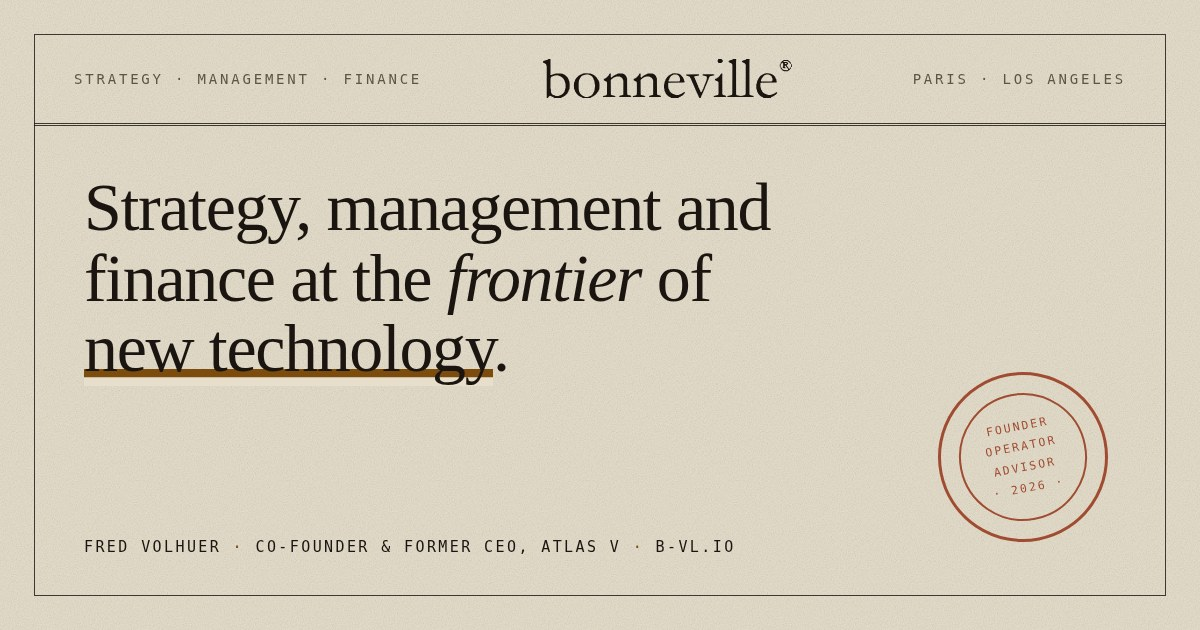
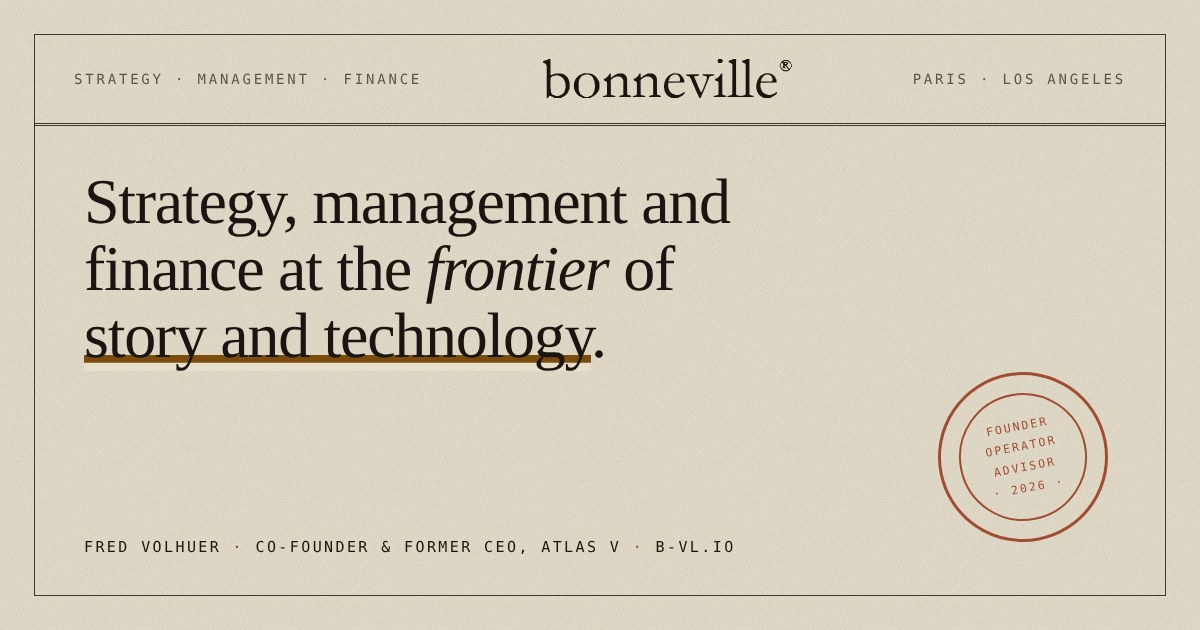
Add thesis section, third mandate and new headline
Headline is now "Strategy, management and finance at the frontier of
story and technology", with the ochre underline on "story and technology".

New section 02, Thesis: High Frequency Content for legacy film and TV
libraries. Four market figures that count up on scroll, the opportunity
in two columns, the five-step loop and closing notes on proof points,
ending on the 90 day pilot.

Mandates now hold three cards, led by the media group advisory. The
client is unnamed and the bid is described as a consortium of
international investors bidding for a listed global production and
distribution media group.

Also fixes a reveal bug: elements already above the viewport after a
jump scroll, a deep link or a refresh never intersected, so they stayed
invisible. A scroll and resize sweep now shows anything already passed,
without replaying its animation.

og.jpg regenerated to match the new headline.

Claude-Session: https://claude.ai/code/session_013wAGs2XHr7dTZLCCZNxCQr

diff --git a/index.html b/index.html
@@ -7,16 +7,16 @@
 <meta charset="utf-8">
 <meta name="viewport" content="width=device-width,initial-scale=1">
 <title>Bonneville · Strategy, General Management &amp; Finance</title>
-<meta name="description" content="Bonneville advises founders, boards and executive teams on strategy, general management and finance, across emerging technology, immersive media, robotics, applied AI and brand marketing. Paris · Los Angeles.">
+<meta name="description" content="Bonneville advises founders, boards and executive teams on strategy, general management and finance. High Frequency Content for legacy film and TV libraries, emerging technology, robotics and applied AI. Paris · Los Angeles.">
 <meta name="theme-color" content="#1A1510">
 <meta property="og:type" content="website">
 <meta property="og:title" content="Bonneville · Strategy, Management &amp; Finance">
-<meta property="og:description" content="Strategy, general management and finance at the frontier of new technology. Founder-led advisory, Paris · Los Angeles.">
+<meta property="og:description" content="Strategy, general management and finance at the frontier of story and technology. Founder-led advisory, Paris · Los Angeles.">
 <meta property="og:url" content="https://b-vl.io/">
 <meta property="og:image" content="https://b-vl.io/og.jpg">
 <meta property="og:image:width" content="1200">
 <meta property="og:image:height" content="630">
-<meta property="og:image:alt" content="Bonneville. Strategy, management and finance at the frontier of new technology.">
+<meta property="og:image:alt" content="Bonneville. Strategy, management and finance at the frontier of story and technology.">
 <meta property="og:site_name" content="Bonneville">
 <meta name="twitter:card" content="summary_large_image">
 <meta name="twitter:image" content="https://b-vl.io/og.jpg">
@@ -127,16 +127,40 @@ h2{font-family:var(--serif);font-weight:400;font-size:clamp(28px,4vw,50px);line-
 
 /* mandates */
 .mgrid{display:grid;border-top:1px solid var(--rule)}
-@media(min-width:860px){.mgrid{grid-template-columns:1fr 1fr}}
-.mand{padding:clamp(24px,3vw,38px) 0;border-bottom:1px solid var(--thin)}
-@media(min-width:860px){.mand:first-child{padding-right:clamp(24px,3vw,44px);border-right:1px solid var(--thin)}
-  .mand:last-child{padding-left:clamp(24px,3vw,44px)}}
+@media(min-width:820px){.mgrid{grid-template-columns:repeat(3,minmax(0,1fr))}}
+.mand{position:relative;min-width:0;padding:clamp(24px,3vw,36px) 0;border-bottom:1px solid var(--thin)}
+@media(min-width:820px){
+  .mand{border-bottom:0;border-right:1px solid var(--thin);padding-inline:clamp(18px,2.2vw,30px)}
+  .mand:first-child{padding-left:0}
+  .mand:last-child{padding-right:0;border-right:0}
+}
+.mand::before{content:"";position:absolute;left:0;top:-1px;height:2px;width:100%;background:var(--och);
+  transform:scaleX(0);transform-origin:left;transition:transform .7s var(--ease2)}
+.mand:hover::before{transform:scaleX(1)}
 .mand .tagl{display:flex;justify-content:space-between;gap:12px;font-family:var(--mono);font-size:9.5px;
   letter-spacing:.22em;text-transform:uppercase;color:var(--och);margin-bottom:14px}
 .mand .tagl span:last-child{color:var(--mut)}
-.mand h3{font-family:var(--serif);font-weight:400;font-size:clamp(26px,2.8vw,38px);line-height:1.08;letter-spacing:-.015em;margin:0 0 6px}
-.mand .what{font-family:var(--serif);font-style:italic;font-size:17px;color:var(--body);margin:0 0 16px}
-.mand p.b{margin:0;font-size:14.5px;line-height:1.68;color:var(--body)}
+.mand h3{font-family:var(--serif);font-weight:400;font-size:clamp(24px,2.5vw,33px);line-height:1.08;
+  letter-spacing:-.015em;margin:0 0 6px;transition:transform .5s var(--ease)}
+.mand:hover h3{transform:translateX(6px)}
+.mand .what{font-family:var(--serif);font-style:italic;font-size:16px;color:var(--body);margin:0 0 16px}
+.mand p.b{margin:0;font-size:14px;line-height:1.66;color:var(--body)}
+
+/* thesis figures */
+.figs{display:grid;grid-template-columns:repeat(2,minmax(0,1fr));border-top:1px solid var(--rule);margin:0 0 36px}
+@media(min-width:1000px){.figs{grid-template-columns:repeat(4,minmax(0,1fr))}}
+.figs div{min-width:0;padding:22px clamp(14px,1.8vw,26px) 22px 0;border-right:1px solid var(--thin);border-bottom:1px solid var(--thin)}
+@media(min-width:1000px){.figs div{border-bottom:0}.figs div:last-child{border-right:0}}
+.figs .n{font-family:var(--serif);font-size:clamp(34px,4.2vw,58px);line-height:.95;letter-spacing:-.025em;font-variant-numeric:tabular-nums}
+.figs .k{font-size:13px;line-height:1.5;color:var(--body);margin-top:9px}
+.figs .src{font-family:var(--mono);font-size:9px;letter-spacing:.14em;text-transform:uppercase;color:var(--mut);margin-top:7px}
+/* thesis statement */
+.stmt{font-family:var(--serif);font-size:clamp(20px,2.3vw,30px);line-height:1.35;letter-spacing:-.012em;margin:0 0 34px;max-width:30ch}
+.stmt b{font-weight:400;background-image:linear-gradient(var(--och),var(--och));background-repeat:no-repeat;background-position:0 94%;background-size:100% .1em}
+.pf{border-top:1px solid var(--rule);margin-top:34px;padding-top:24px;display:grid;gap:22px}
+@media(min-width:860px){.pf{grid-template-columns:1fr 1fr}}
+.pf p{margin:0;font-size:14px;line-height:1.68;color:var(--body)}
+.pf .k{font-family:var(--mono);font-size:9.5px;letter-spacing:.22em;text-transform:uppercase;color:var(--och);margin-bottom:9px}
 
 /* contact */
 .ink{background:var(--ink);color:var(--paper);position:relative;isolation:isolate}
@@ -255,14 +279,14 @@ html.js.settled .stamp{transition:none}
 <main id="main">
 <section class="hero" id="top">
   <span class="cat">Strategy · General Management · Finance</span>
-  <h1 class="serif">Strategy, management and finance at the <em>frontier</em> of <span class="uline">new technology</span>.</h1>
+  <h1 class="serif">Strategy, management and finance at the <em>frontier</em> of <span class="uline">story and technology</span>.</h1>
   <div class="dek">
-    <p>Bonneville advises founders, boards and executive teams on strategy, operations and financing: from company building and P&amp;L ownership to fundraising, cross-border co-production and go-to-market.</p>
+    <p>Bonneville advises founders, boards and executive teams on strategy, operations and financing: from company building and P&amp;L ownership to fundraising, acquisitions and go-to-market. Current focus: putting legacy film and TV libraries back in step with how audiences now find things.</p>
     <p>Led by Fred Volhuer, co-founder and former CEO of Atlas&nbsp;V, whose productions won more than 30 international awards including an Emmy and two Peabody Awards, and Guest Professor at Arizona State University. Sector experience spans emerging technology, immersive and spatial media, robotics, applied AI and brand marketing including social platforms.</p>
   </div>
   <div class="cta">
     <a class="btn btn-ink" href="#contact">Start a conversation</a>
-    <a class="btn btn-line" href="#mandates">Recent mandates</a>
+    <a class="btn btn-line" href="#thesis">Read the thesis</a>
   </div>
   <div class="stamp" aria-hidden="true"><span>Founder<br>Operator<br>Advisor<br>· 2026 ·</span></div>
 </section>
@@ -280,10 +304,53 @@ html.js.settled .stamp{transition:none}
   </ol>
 </section>
 
+<section class="sec" id="thesis">
+  <p class="eyebrow"><b>02</b>Thesis</p>
+  <h2 class="serif">High Frequency Content for legacy film and TV libraries.</h2>
+  <p class="stmt">Legacy libraries run on slow cycles in a world of <b>fast attention</b>. The value is already there. The machinery to answer an audience within days is not.</p>
+
+  <div class="figs">
+    <div><div class="n">50%</div><p class="k">of TikTok users say they discovered a new film there</p><p class="src">TikTok, 2026</p></div>
+    <div><div class="n">12.5%</div><p class="k">YouTube's share of all US TV viewing, January 2026</p><p class="src">Nielsen</p></div>
+    <div><div class="n">$11bn</div><p class="k">FAST revenue by 2030, up from $6bn in 2025</p><p class="src">Omdia</p></div>
+    <div><div class="n">$35bn</div><p class="k">Volumetric video market by 2034, growing 26.7% a year</p><p class="src">Fortune BI</p></div>
+  </div>
+
+  <div class="split" style="margin-bottom:38px">
+    <div>
+      <p class="lede">Library content is the backbone of viewing: the most streamed US title of 2023 was Suits, a series that ended in 2019. Discovery now happens in clips, and a channel of film extracts carries more than 66 million subscribers.</p>
+    </div>
+    <div>
+      <p class="lede">Yet most libraries still run on calendars set months ahead. Their value hides in concentration, erosion and latency. When an actor trends, a remake is announced or a scene becomes a meme, the window lasts days, and nobody is there to answer it.</p>
+    </div>
+  </div>
+
+  <ol class="rl">
+    <li><span class="n serif">01.</span><h3 class="serif">Real-time analysis</h3><p>A Social Media Brain detects and qualifies signals across social conversation, search, streaming charts and news, then matches them to titles and audiences.</p></li>
+    <li><span class="n serif">02.</span><h3 class="serif">Content test loops</h3><p>Several angles per signal, from clips and recuts to trailers and localised versions, tested against controls. Budgets move daily to what works.</p></li>
+    <li><span class="n serif">03.</span><h3 class="serif">Sharp production capacity</h3><p>A small team on AI pipelines turns an opportunity into validated content within hours, at a unit cost that makes thousands of niche audiences worth serving.</p></li>
+    <li><span class="n serif">04.</span><h3 class="serif">Decisions and reach</h3><p>The same evidence scores acquisitions, renewals and reissues, and feeds AI localisation and FAST and AVOD channels.</p></li>
+    <li><span class="n serif">05.</span><h3 class="serif">New forms of engagement</h3><p>A 4D Gaussian Splatting pipeline captures talent volumetrically for photoreal holograms, XR and mobile AR. One capture can be re-rendered from any angle, feeding the loop with new material.</p></li>
+  </ol>
+
+  <div class="pf">
+    <div><p class="k">It already works</p><p>Terrifier 3 grossed about $80m on roughly $500,000 of marketing through owned media. A TikTok surge was credited with about $58m of additional US box office for Zootopia 2. ABBA Voyage's avatar concert earned £104m in 2024.</p></div>
+    <div><p class="k">Where the value sits</p><p>Frequency without learning is noise. The unit of value is not a video but a closed learning loop, from signal to reusable lesson. The biggest prize is better decisions, not cheaper ones, and rights and talent consent come first.</p></div>
+  </div>
+
+  <p class="more" style="margin-top:28px">First step, a 90 day pilot: a demand map of 50 to 100 titles, a High Frequency loop on 20 of them, one holographic prototype.</p>
+</section>
+
 <section class="sec" id="mandates">
-  <p class="eyebrow"><b>02</b>Recent mandates</p>
-  <h2 class="serif">Robotics, social platforms, financing.</h2>
+  <p class="eyebrow"><b>03</b>Recent mandates</p>
+  <h2 class="serif">Media, robotics, social platforms.</h2>
   <div class="mgrid">
+    <article class="mand">
+      <div class="tagl"><span>Media · Library strategy</span><span>Current</span></div>
+      <h3 class="serif">A major media group</h3>
+      <p class="what">Advisory on legacy film and TV library strategy, applying the thesis above.</p>
+      <p class="b">Part of this mandate was representing a consortium of international investors in a bid for a listed global production and distribution media group, covering the industrial case, the structure of the offer and the relationship with the other parties to the process.</p>
+    </article>
     <article class="mand">
       <div class="tagl"><span>Robotics · Human-machine</span><span>2025</span></div>
       <h3 class="serif">Enchanted Tools</h3>
@@ -300,7 +367,7 @@ html.js.settled .stamp{transition:none}
 </section>
 
 <section class="sec" id="recognition">
-  <p class="eyebrow"><b>03</b>Recognition</p>
+  <p class="eyebrow"><b>04</b>Recognition</p>
   <h2 class="serif">Recognition for the productions led at Atlas&nbsp;V.</h2>
   <div class="tot">
     <div><span class="serif">30+</span><p>International awards, including an Emmy, two Peabody Awards and prizes at Venice, Annecy, SXSW and Tribeca</p></div>
@@ -326,7 +393,7 @@ html.js.settled .stamp{transition:none}
 </section>
 
 <section class="sec ink" id="contact">
-  <p class="eyebrow"><b>04</b>Inquire</p>
+  <p class="eyebrow"><b>05</b>Inquire</p>
   <div class="ct">
     <div>
       <h2 class="serif">Start a conversation.</h2>
@@ -383,7 +450,8 @@ html.js.settled .stamp{transition:none}
   /* reveal targets, staggered within their group */
   var groups=[
     ['.hero .cat,.dek p,.cta',0.12],
-    ['.eyebrow',0],['.rl li',0.07],['.mand',0.14],['.tot > div',0.14],
+    ['.eyebrow',0],['.rl li',0.07],['.mand',0.12],['.tot > div',0.14],
+    ['.stmt',0],['.figs > div',0.1],['#thesis .split > div',0.12],['.pf > div',0.12],
     ['.works caption,.works thead tr',0],['.works tbody tr',0.05],['.more',0],
     ['.ct .lead,.ct .btn,.addr > div',0.08]
   ];
@@ -399,35 +467,48 @@ html.js.settled .stamp{transition:none}
 
   /* count-up for the totals */
   function count(el){
-    var txt=el.textContent, m=txt.match(/^(\d+)(.*)$/); if(!m) return;
-    var end=+m[1], suf=m[2], t0=null, dur=1400;
+    var txt=el.textContent, m=txt.match(/^(\D*)(\d+(?:\.\d+)?)(.*)$/); if(!m) return;
+    var pre=m[1], end=parseFloat(m[2]), dec=(m[2].split('.')[1]||'').length, suf=m[3], t0=null, dur=1400;
     if(reduce){return;}
+    function val(k){ return (end*k).toFixed(dec); }
     function step(t){ if(!t0)t0=t; var k=Math.min(1,(t-t0)/dur); k=1-Math.pow(1-k,3);
-      el.textContent=Math.round(end*k)+suf; if(k<1) requestAnimationFrame(step); }
-    el.textContent='0'+suf; requestAnimationFrame(step);
+      el.textContent=pre+val(k)+suf; if(k<1) requestAnimationFrame(step); else el.textContent=txt; }
+    el.textContent=pre+val(0)+suf; requestAnimationFrame(step);
   }
 
+  function reveal(el,animate){
+    el.classList.add('in'); io.unobserve(el);
+    if(animate===false) return;
+    if(el.matches('.tot > div')){ var sp=el.querySelector('span'); if(sp) count(sp); }
+    if(el.matches('.figs > div')){ var nn=el.querySelector('.n'); if(nn) count(nn); }
+  }
   var io=new IntersectionObserver(function(es){
     es.forEach(function(e){
-      if(!e.isIntersecting) return;
-      e.target.classList.add('in'); io.unobserve(e.target);
-      if(e.target.matches('.tot > div')){ var sp=e.target.querySelector('span'); if(sp) count(sp); }
+      if(e.isIntersecting){ reveal(e.target); return; }
+      /* already scrolled past (deep link, refresh, back button): show it, don't animate */
+      if(e.boundingClientRect.bottom<=0) reveal(e.target,false);
     });
   },{rootMargin:'0px 0px -6% 0px',threshold:0});
   /* the hero plays on load; everything else waits for scroll */
   var hero=document.querySelector('.hero');
   document.querySelectorAll('.rv,.split').forEach(function(el){ if(!hero.contains(el)) io.observe(el); });
 
-  /* safety net: at the bottom of the page, nothing stays hidden */
+  /* safety net: a jump scroll can carry an element from below to above the
+     viewport without ever intersecting, so sweep anything already passed. */
+  var sweeping=false;
   function sweep(){
-    if(window.innerHeight+window.scrollY>=document.documentElement.scrollHeight-4){
+    if(sweeping) return; sweeping=true;
+    requestAnimationFrame(function(){
+      sweeping=false;
+      var atEnd=window.innerHeight+window.scrollY>=document.documentElement.scrollHeight-4;
       document.querySelectorAll('.rv:not(.in),.split:not(.in)').forEach(function(el){
-        el.classList.add('in'); io.unobserve(el);
-        if(el.matches('.tot > div')){ var sp=el.querySelector('span'); if(sp) count(sp); }
+        if(atEnd){ reveal(el); return; }
+        if(el.getBoundingClientRect().bottom<=0) reveal(el,false);
       });
-    }
+    });
   }
   window.addEventListener('scroll',sweep,{passive:true});
+  window.addEventListener('resize',sweep,{passive:true});
 
   /* load sequence */
   requestAnimationFrame(function(){ requestAnimationFrame(function(){
